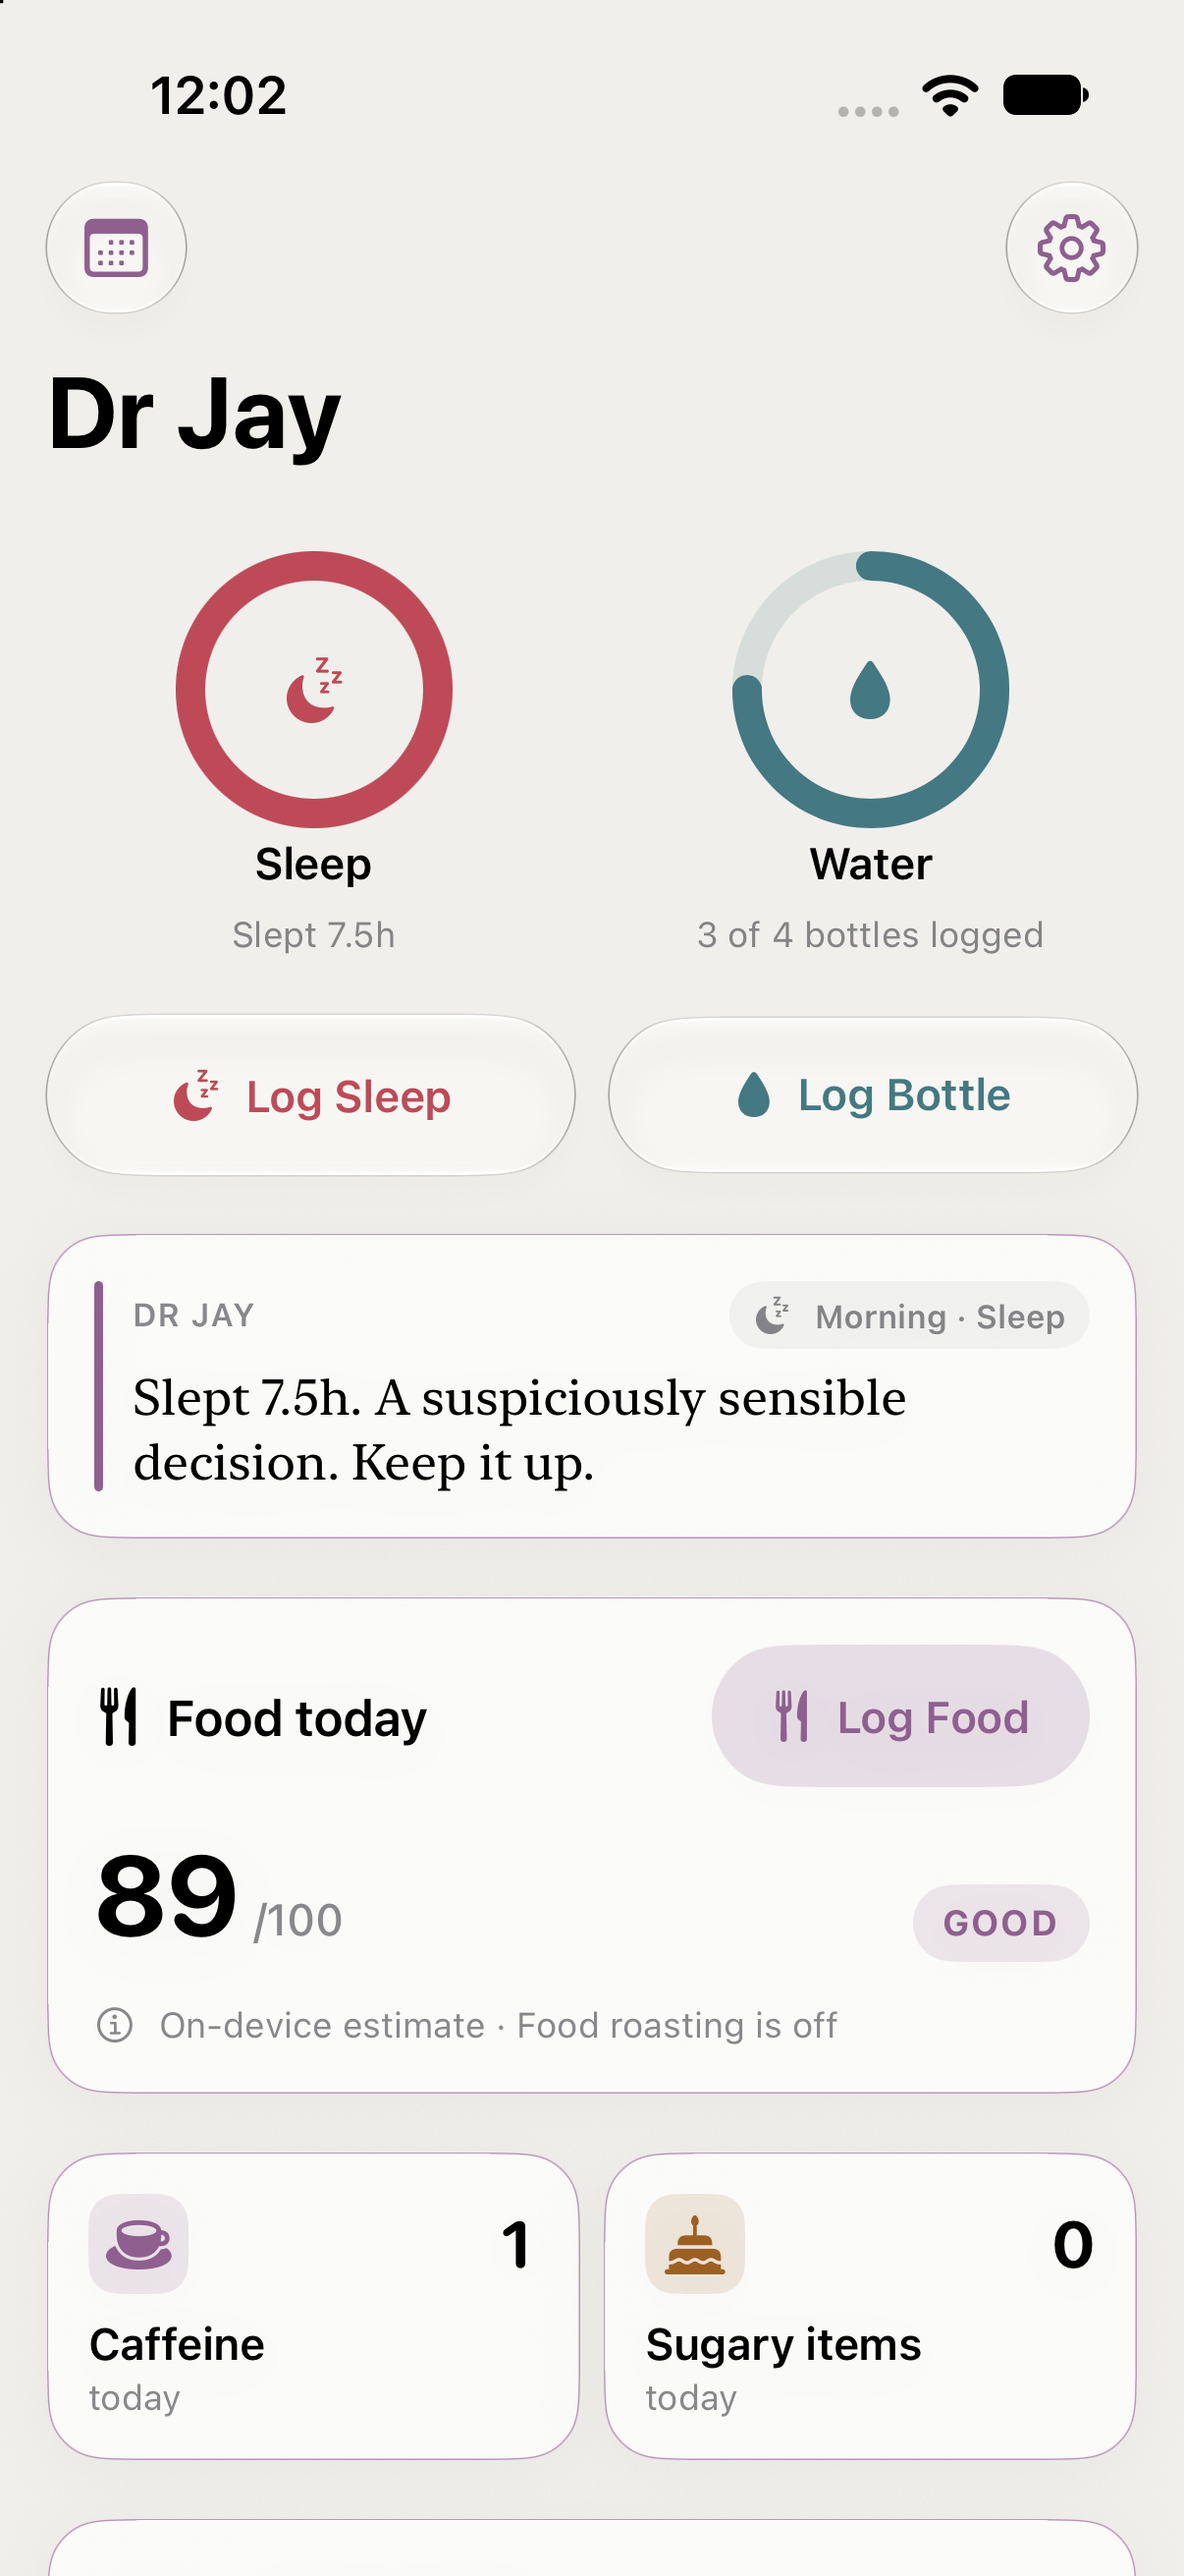
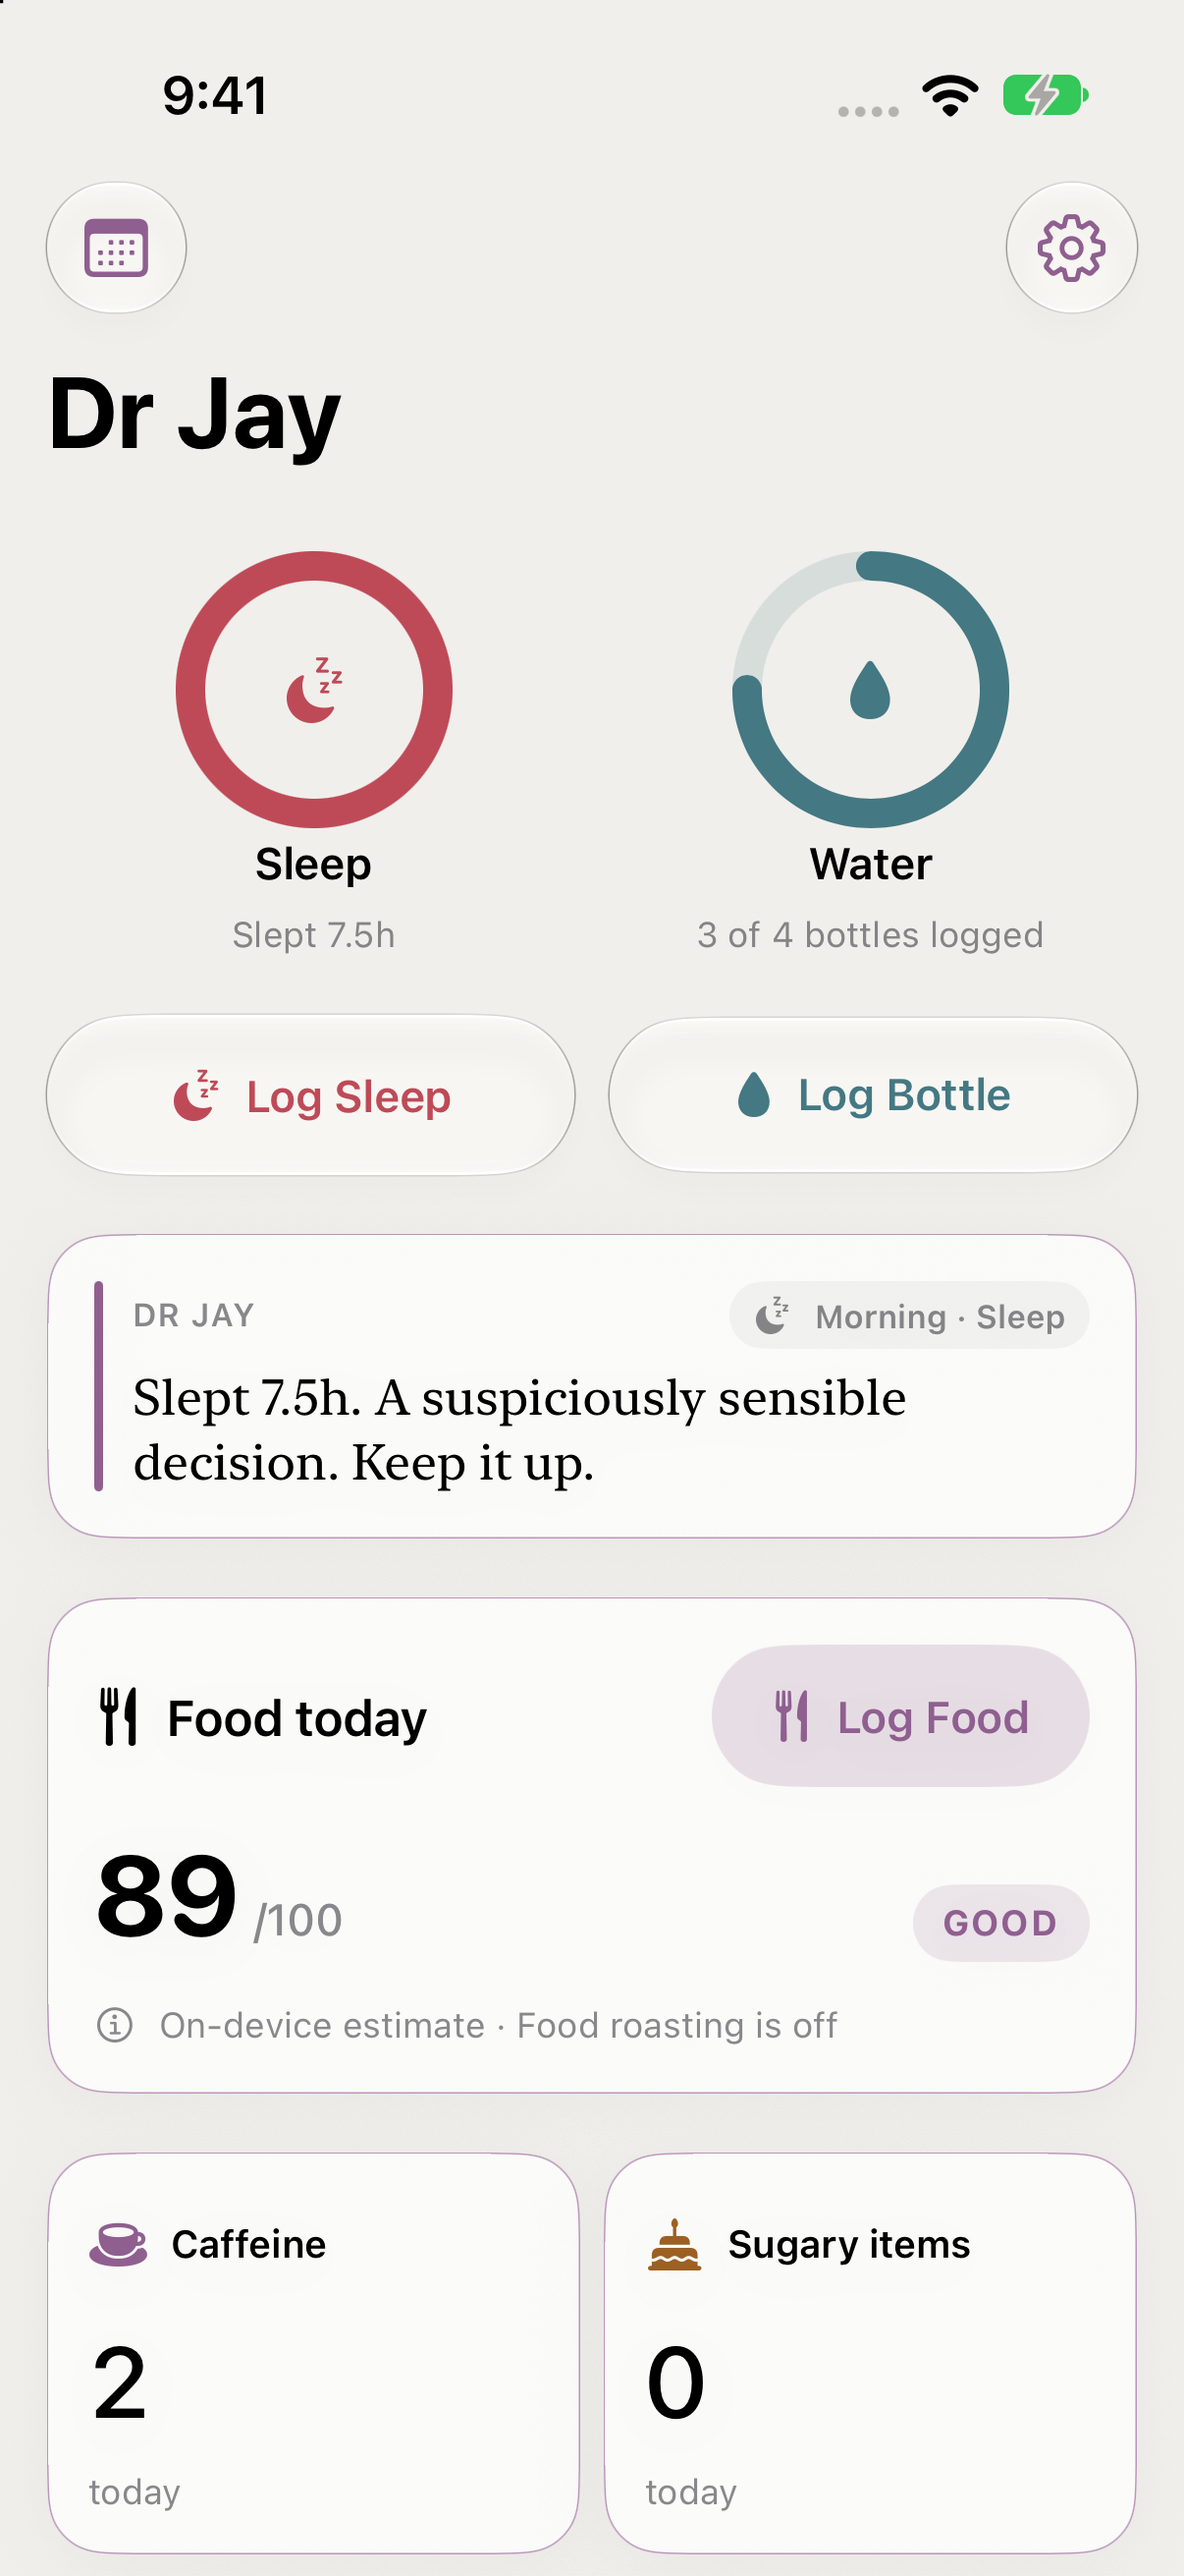
docs: expand README feature screenshot gallery

diff --git a/README.md b/README.md
@@ -6,14 +6,73 @@ step count—with praise when you deliver and a sharp roast when you do not.
 
 ## Screenshots
 
-Captured on an iPhone simulator with sample entries. Light and dark appearances
-adapt to the selected theme; Brain Dump conversations disappear when closed.
+<table>
+  <tr>
+    <th>Today</th>
+    <th>Daily Report</th>
+    <th>Insights</th>
+  </tr>
+  <tr>
+    <td><img src="docs/screenshots/today-light.png" width="250" alt="Today: sleep and water goal rings, food estimate, and caffeine and sugary-item counters"></td>
+    <td><img src="docs/screenshots/daily-report.png" width="250" alt="Daily Report: overall verdict, scoring profile, effective weights, and Dr Jay commentary"></td>
+    <td><img src="docs/screenshots/insights.png" width="250" alt="Insights: seven-day coverage, commentary, habit adherence, and direction"></td>
+  </tr>
+  <tr>
+    <td>Log your habits and see today's progress at a glance.</td>
+    <td>Understand the day's score and hear Dr Jay's take.</td>
+    <td>Explore 7- and 30-day patterns, priorities, and progress.</td>
+  </tr>
+</table>
+
+<details>
+<summary>Explore the app</summary>
+
+### Daily logs and history
+
+History keeps daily logs, food corrections, optional exercise, and streaks.
+Today's activity cards surface Health steps and let you log exercise in your
+own words.
 
 <p>
-  <img src="docs/screenshots/today-light.png" width="250" alt="Today in light mode: sleep and water goal rings, food estimate, and caffeine and sugary-item counters">
-  <img src="docs/screenshots/today.png" width="250" alt="Today in dark mode with the same sample data">
-  <img src="docs/screenshots/brain-dump.png" width="250" alt="Brain Dump: a temporary conversation with a clearly visible message composer">
+  <img src="docs/screenshots/history.png" width="280" alt="History: consistency stats, food classifications and correction controls, and exercise entries">
+  <img src="docs/screenshots/today-activity.png" width="280" alt="Today: Health steps, optional exercise logging, report generation, Brain Dump and streaks">
 </p>
+
+### Brain Dump
+
+A private place to untangle your thoughts with playful commentary. Closing it
+erases the conversation.
+
+<p>
+  <img src="docs/screenshots/brain-dump.png" width="280" alt="Brain Dump: temporary conversation with an explicit nothing-is-saved promise">
+</p>
+
+### Widgets, Live Activities, and Dynamic Island
+
+Follow sleep and water progress from the Home Screen widget, the Dynamic
+Island, and the Dr Jay Live Activity on the Lock Screen.
+
+<p>
+  <img src="docs/screenshots/home-widget.png" width="280" alt="Home Screen: Dr Jay sleep and water widget, with progress also visible in the Dynamic Island">
+  <img src="docs/screenshots/lock-screen.png" width="280" alt="Lock Screen: Dr Jay Live Activity in the lower card, showing sleep and water status and the next check-in">
+</p>
+
+### Make it yours
+
+Choose from seven themes with light and dark appearances. Settings also
+controls Health access, check-in times, roast intensity, food feedback,
+scoring profiles, optional Gemma commentary, and JSON backup and restore.
+
+<p>
+  <img src="docs/screenshots/today.png" width="280" alt="Today in dark appearance with polished caffeine and sugary-item counters">
+  <img src="docs/screenshots/themes.png" width="280" alt="Theme selection: seven palettes and the currently selected Tropic Tonalities theme">
+</p>
+
+<p>
+  <img src="docs/screenshots/settings.png" width="280" alt="Settings: roast intensity, opt-in food feedback, daily scoring profiles and on-device model options">
+</p>
+
+</details>
 
 ## What it tracks
 
@@ -23,7 +82,7 @@ adapt to the selected theme; Brain Dump conversations disappear when closed.
 - **Water:** progress toward a configurable full-day goal. Morning, afternoon,
   and night check-ins judge whether the complete daily goal has been reached;
   they do not estimate whether the user is "on pace."
-- **Food:** plain-language meal and snack entries are analyzed on device. An
+- **Food:** plain-language meal and snack entries are analyzed on device. Each
   classification is an estimate that can be corrected. Food roasts are off
   by default and can be enabled in Settings. The Today screen rolls
   all analyzed entries into an order-independent daily score:
